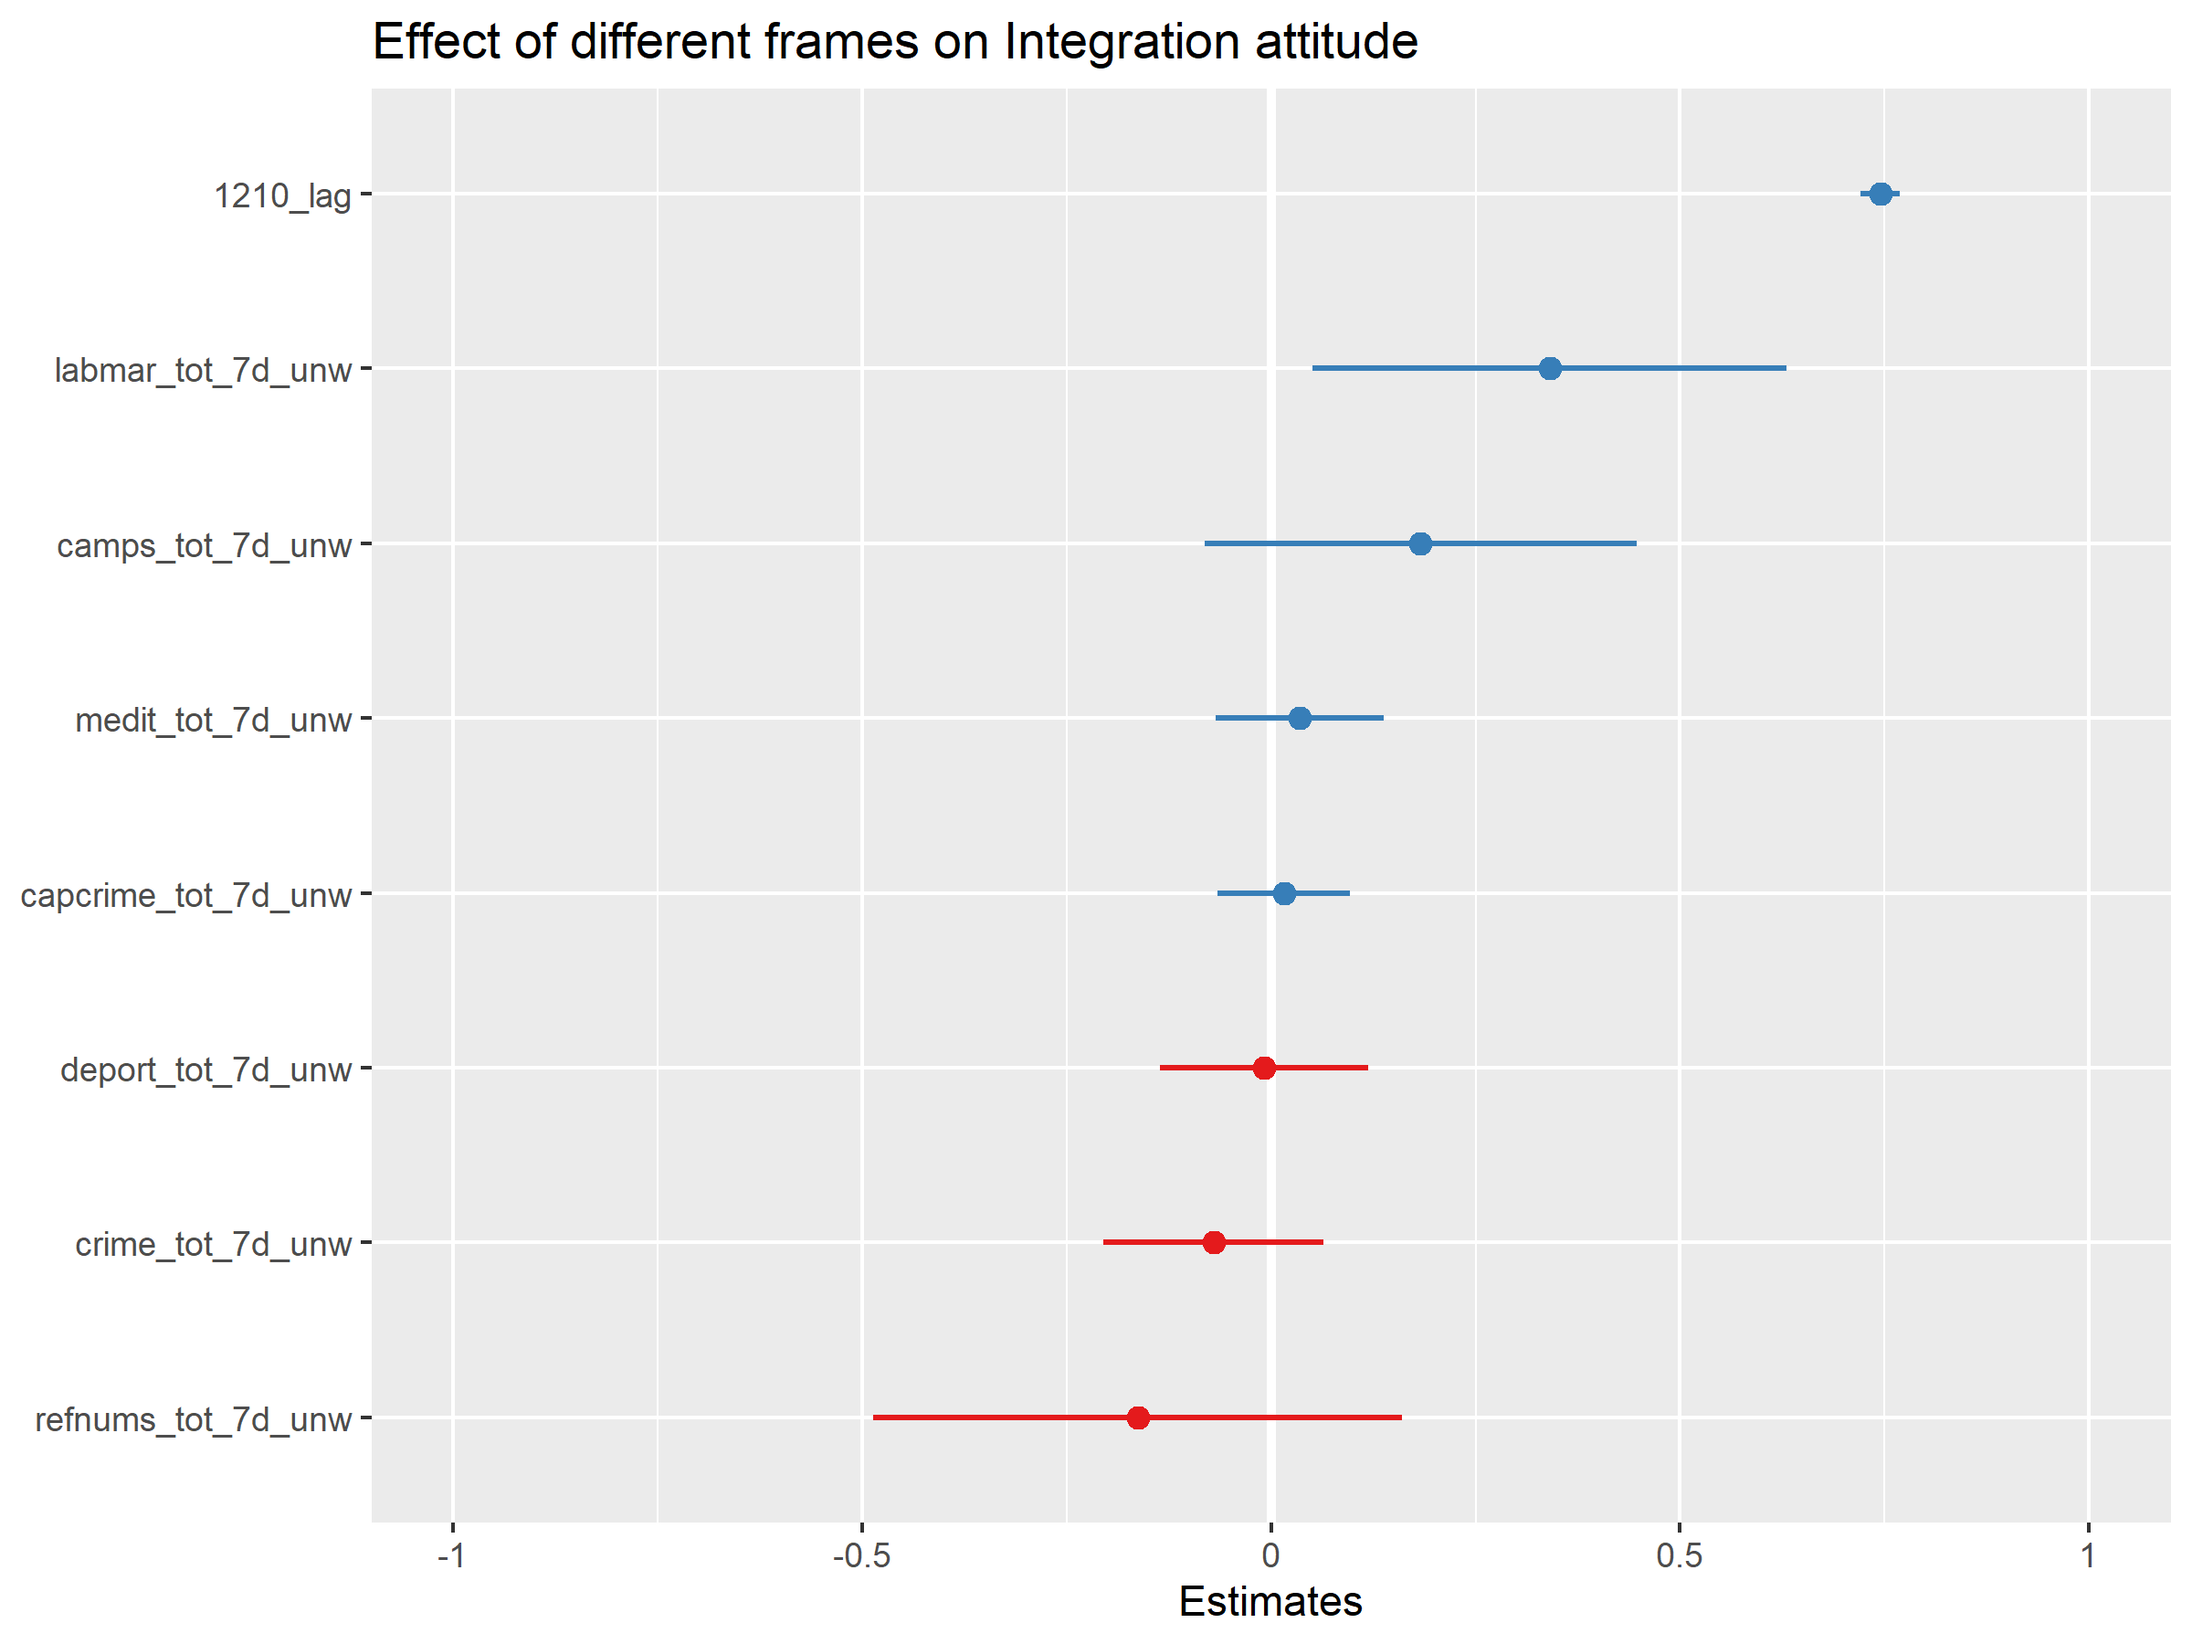
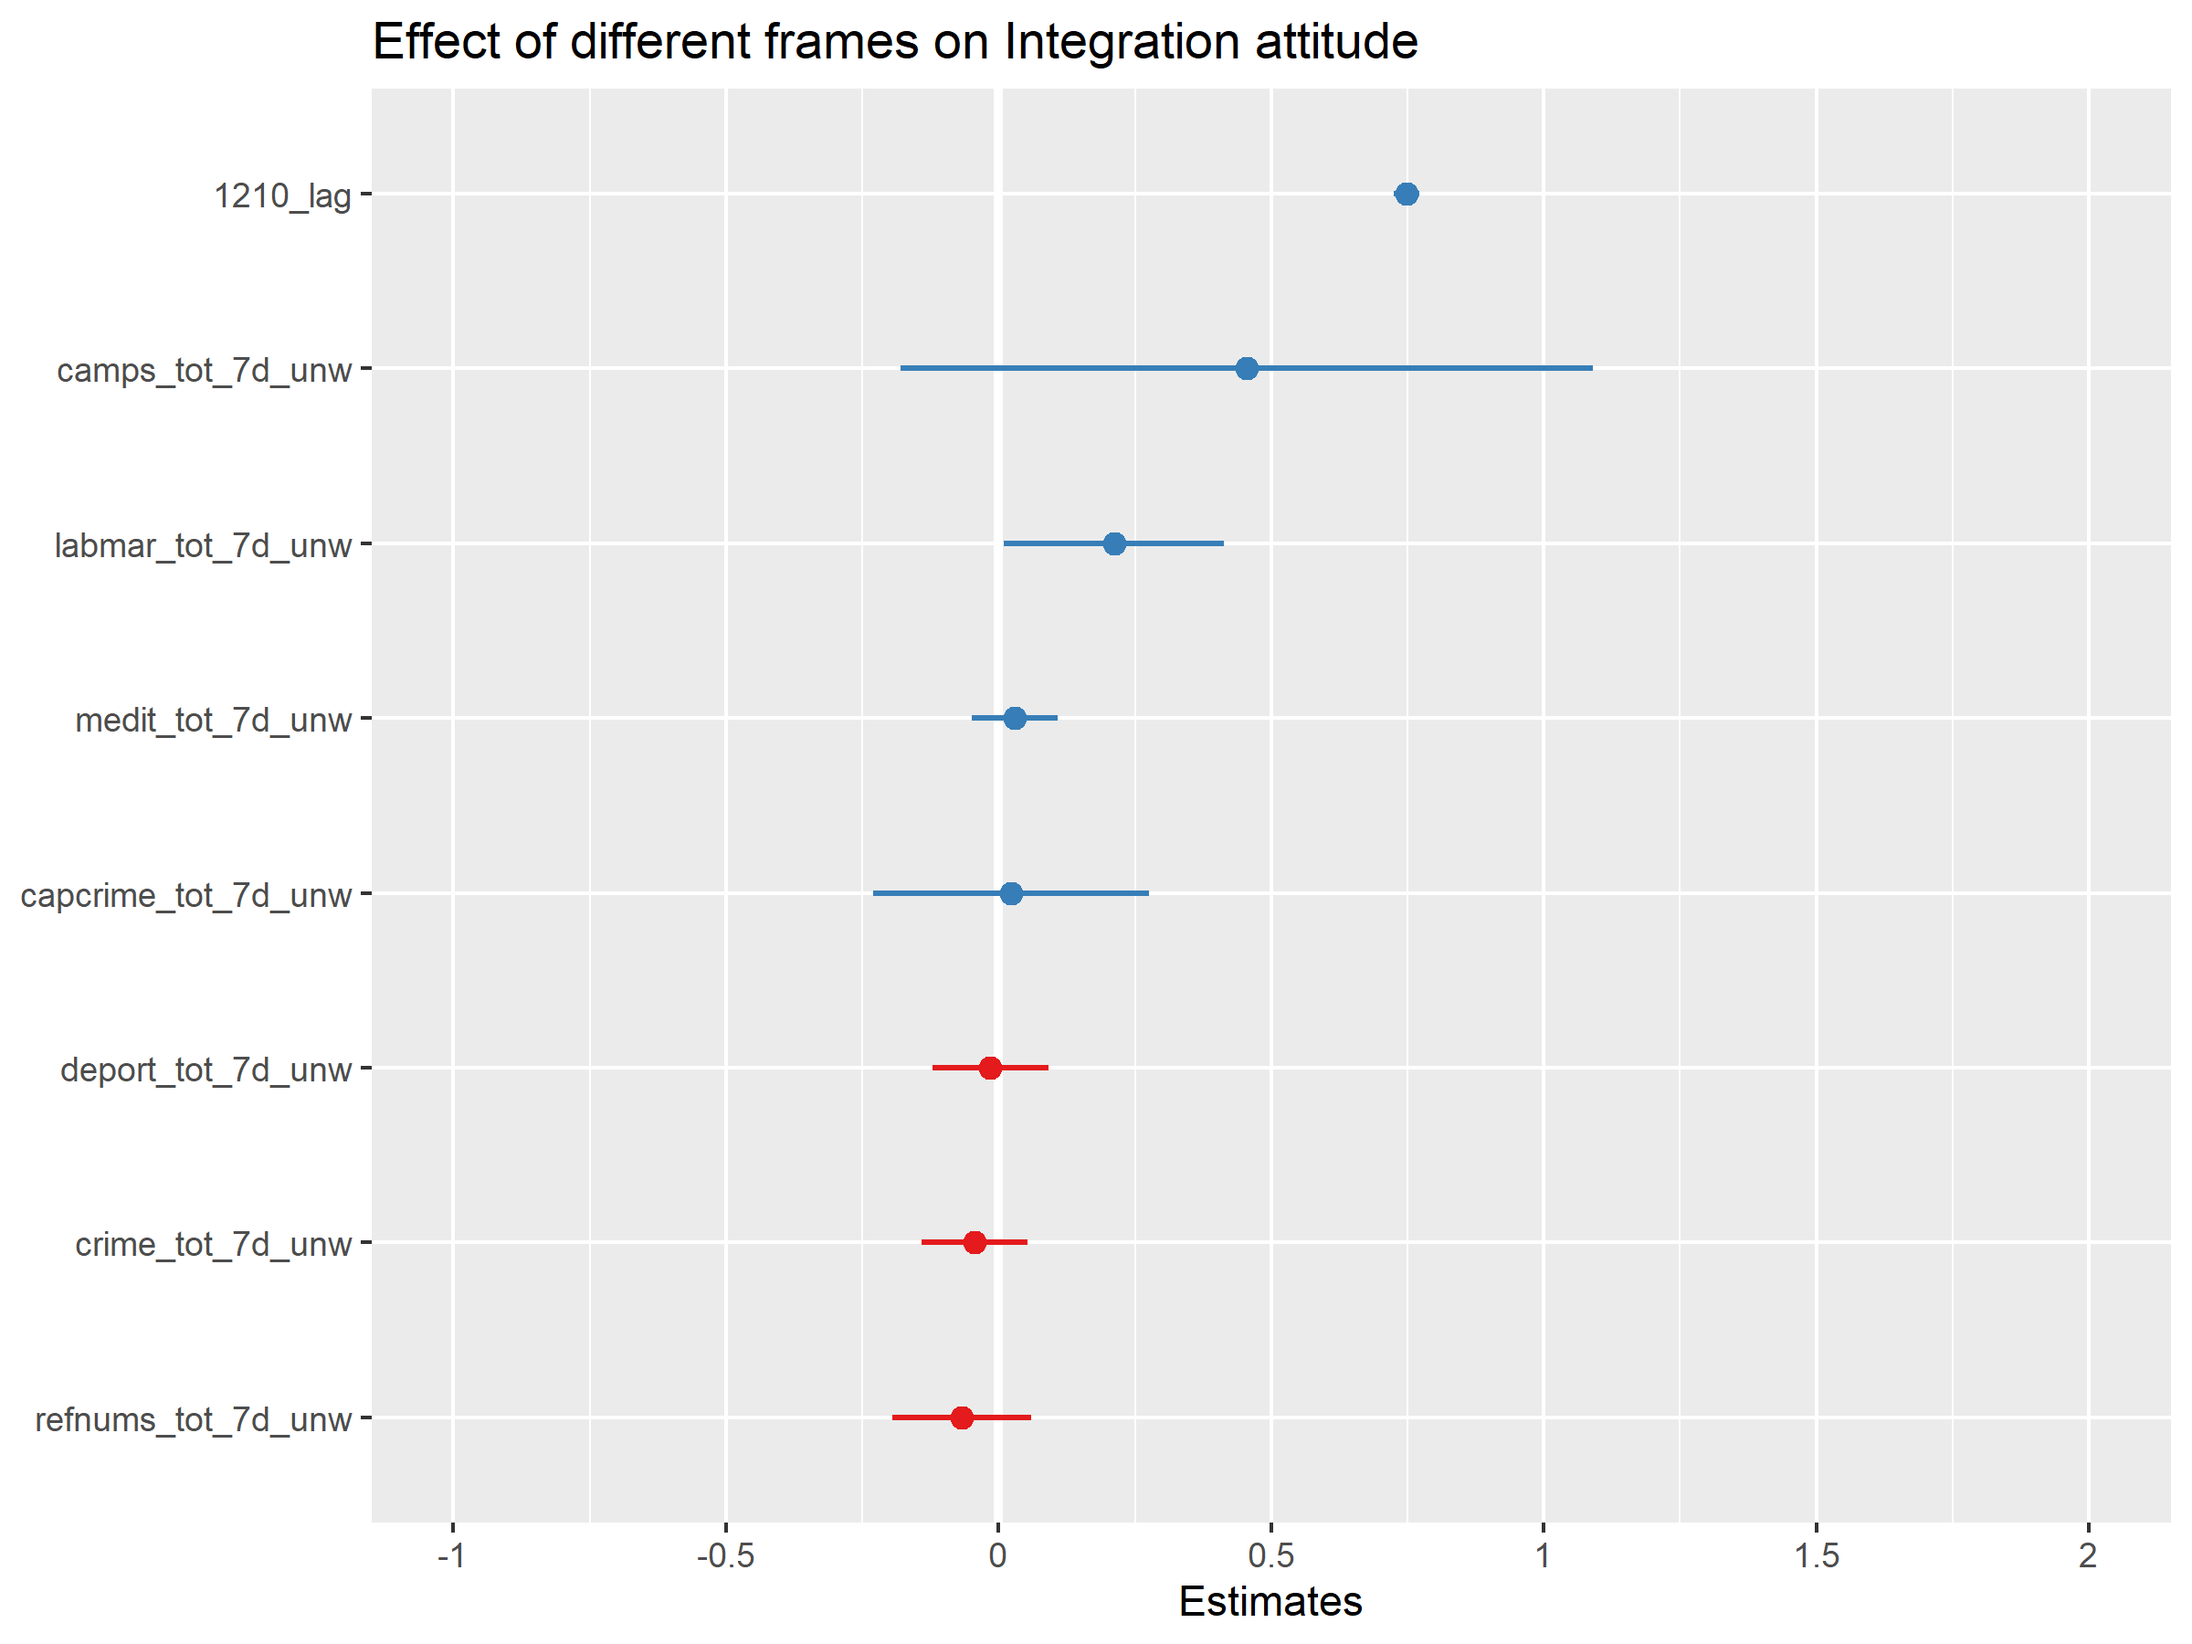
Get rid of scaling again

diff --git a/paper/imm_unw.tex b/paper/imm_unw.tex
@@ -1,6 +1,6 @@
 
 % Table created by stargazer v.5.2.2 by Marek Hlavac, Harvard University. E-mail: hlavac at fas.harvard.edu
-% Date and time: Mi, Sep 29, 2021 - 11:12:54
+% Date and time: Mi, Sep 29, 2021 - 14:32:34
 \begin{table}[!htbp] \centering 
   \caption{Individual-level Model} 
   \label{} 
@@ -12,42 +12,42 @@
 \\[-1.8ex] & `1130\_clean` & `1210\_clean` \\ 
 \\[-1.8ex] & (1) & (2)\\ 
 \hline \\[-1.8ex] 
- `1130\_lag` & 0.816$^{***}$ &  \\ 
+ `1130\_lag` & 0.818$^{***}$ &  \\ 
   & (0.005) &  \\ 
   & & \\ 
- `1210\_lag` &  & 0.745$^{***}$ \\ 
+ `1210\_lag` &  & 0.748$^{***}$ \\ 
   &  & (0.012) \\ 
   & & \\ 
- scale(crime\_tot\_7d\_unw, center = T, scale = T) & 0.022 & $-$0.071 \\ 
-  & (0.019) & (0.069) \\ 
+ crime\_tot\_7d\_unw & 0.012 & $-$0.044 \\ 
+  & (0.011) & (0.050) \\ 
   & & \\ 
- scale(capcrime\_tot\_7d\_unw, center = T, scale = T) & 0.011 & 0.016 \\ 
-  & (0.015) & (0.041) \\ 
+ capcrime\_tot\_7d\_unw & 0.062 & 0.023 \\ 
+  & (0.041) & (0.129) \\ 
   & & \\ 
- scale(refnums\_tot\_7d\_unw, center = T, scale = T) & $-$0.328$^{***}$ & $-$0.163 \\ 
-  & (0.046) & (0.165) \\ 
+ refnums\_tot\_7d\_unw & $-$0.116$^{***}$ & $-$0.068 \\ 
+  & (0.017) & (0.065) \\ 
   & & \\ 
- scale(camps\_tot\_7d\_unw, center = T, scale = T) & 0.011 & 0.183 \\ 
-  & (0.012) & (0.134) \\ 
+ camps\_tot\_7d\_unw & 0.019 & 0.455 \\ 
+  & (0.030) & (0.324) \\ 
   & & \\ 
- scale(medit\_tot\_7d\_unw, center = T, scale = T) & 0.112$^{***}$ & 0.035 \\ 
-  & (0.018) & (0.052) \\ 
+ medit\_tot\_7d\_unw & 0.083$^{***}$ & 0.030 \\ 
+  & (0.014) & (0.040) \\ 
   & & \\ 
- scale(labmar\_tot\_7d\_unw, center = T, scale = T) & 0.243$^{***}$ & 0.340$^{**}$ \\ 
-  & (0.029) & (0.148) \\ 
+ labmar\_tot\_7d\_unw & 0.167$^{***}$ & 0.212$^{**}$ \\ 
+  & (0.019) & (0.103) \\ 
   & & \\ 
- scale(deport\_tot\_7d\_unw, center = T, scale = T) & $-$0.048$^{***}$ & $-$0.008 \\ 
-  & (0.012) & (0.065) \\ 
+ deport\_tot\_7d\_unw & $-$0.046$^{***}$ & $-$0.015 \\ 
+  & (0.010) & (0.054) \\ 
   & & \\ 
- Constant & 0.168$^{***}$ & $-$0.092 \\ 
-  & (0.018) & (0.090) \\ 
+ Constant & 0.216$^{***}$ & $-$0.291$^{***}$ \\ 
+  & (0.022) & (0.069) \\ 
   & & \\ 
 \hline \\[-1.8ex] 
-Observations & 13,346 & 3,818 \\ 
-R$^{2}$ & 0.646 & 0.509 \\ 
-Adjusted R$^{2}$ & 0.646 & 0.508 \\ 
-Residual Std. Error & 1.083 (df = 13337) & 1.035 (df = 3809) \\ 
-F Statistic & 3,045.212$^{***}$ (df = 8; 13337) & 493.950$^{***}$ (df = 8; 3809) \\ 
+Observations & 15,373 & 3,968 \\ 
+R$^{2}$ & 0.650 & 0.510 \\ 
+Adjusted R$^{2}$ & 0.650 & 0.509 \\ 
+Residual Std. Error & 1.075 (df = 15364) & 1.035 (df = 3959) \\ 
+F Statistic & 3,565.925$^{***}$ (df = 8; 15364) & 515.265$^{***}$ (df = 8; 3959) \\ 
 \hline 
 \hline \\[-1.8ex] 
 \textit{Note:}  & \multicolumn{2}{r}{$^{*}$p$<$0.1; $^{**}$p$<$0.05; $^{***}$p$<$0.01} \\ 
